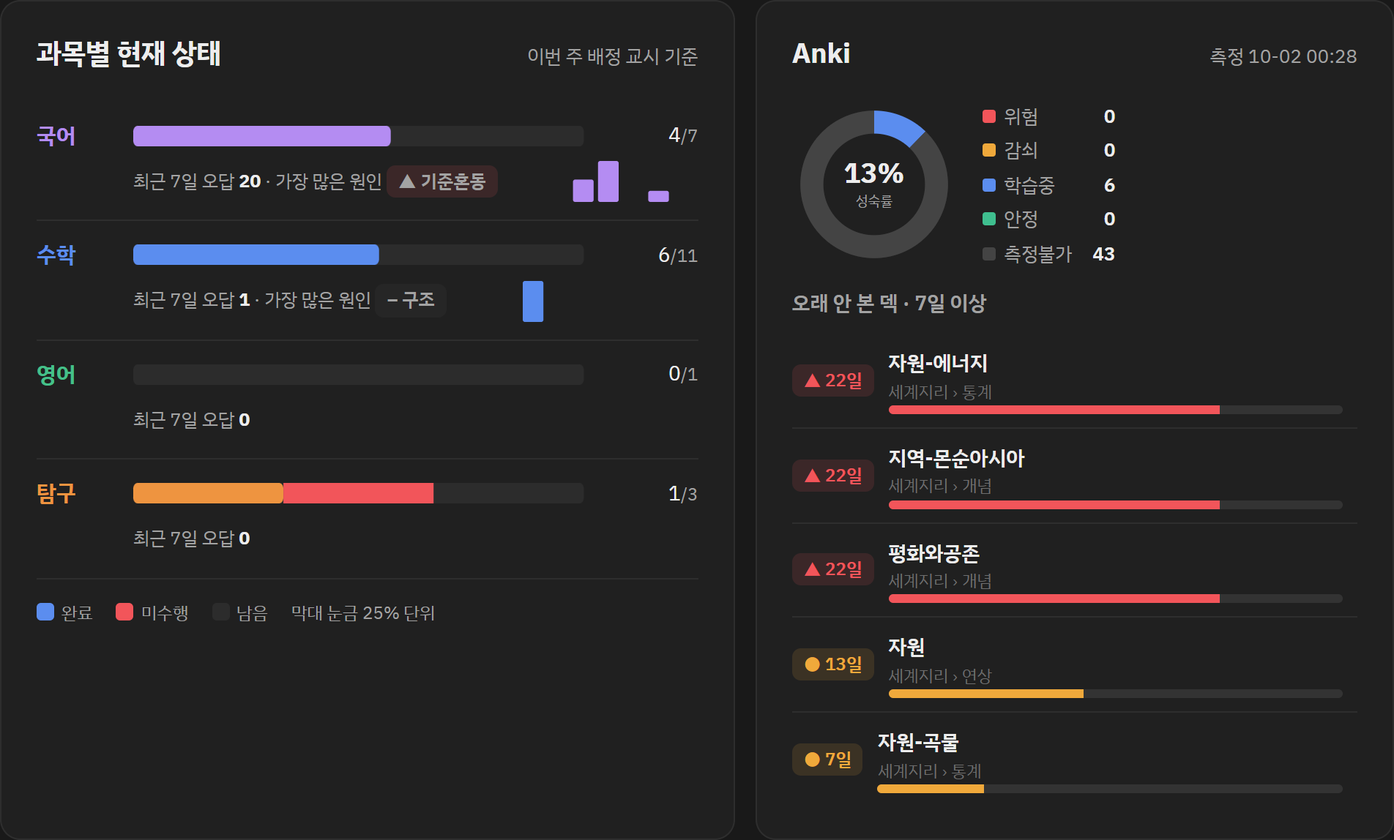
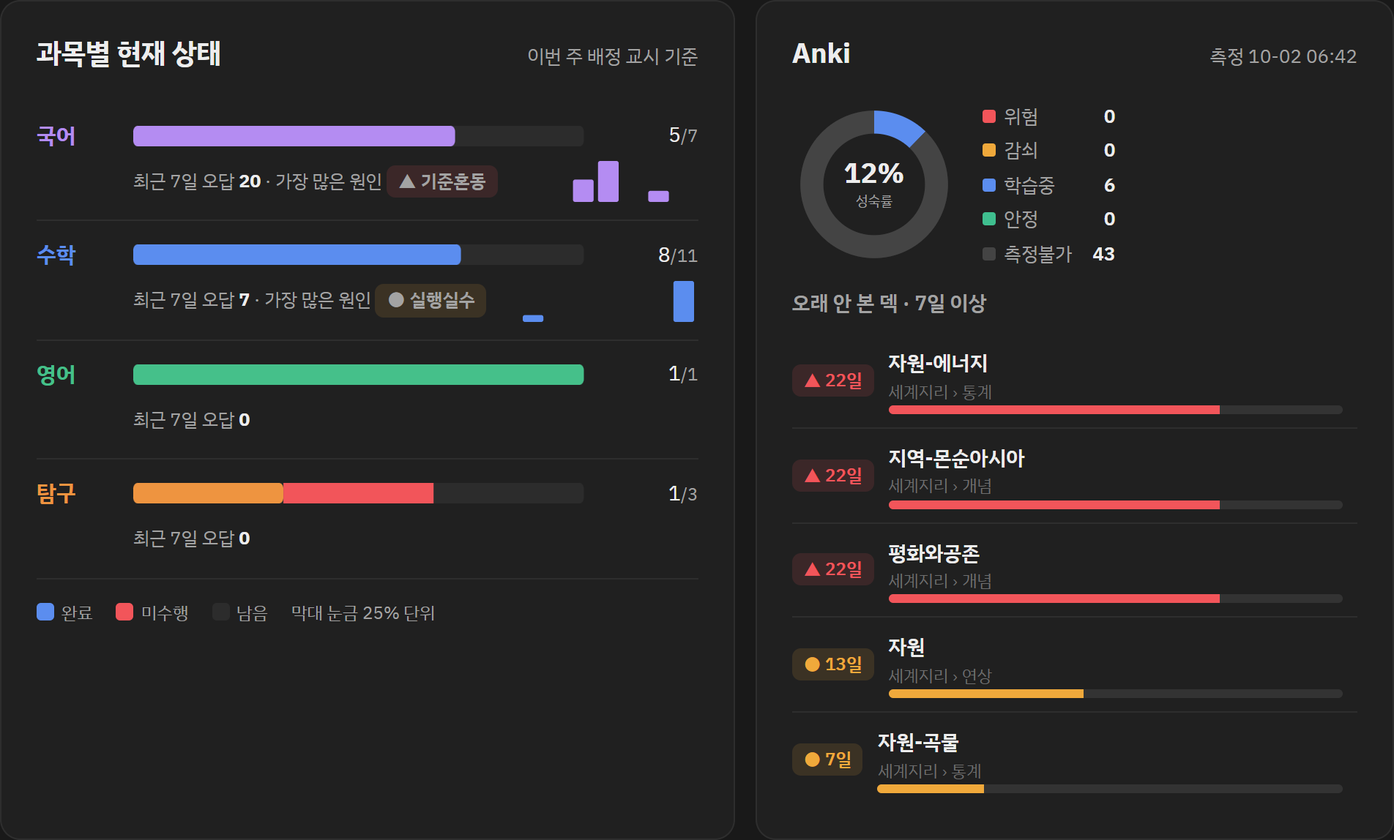
dashboard: D-48 · 완료 0 · 적체 21·저장함 196·주 0/12 · 미코딩 113
- 1차 대기 21 → 26
- 큐 밖 247 → 248

diff --git a/docs/index.html b/docs/index.html
@@ -132,7 +132,7 @@ details.mod>*:last-child{padding-bottom:14px}
   <div class="hud-top">
     <div><div class="dday">D-48</div><div class="dday-s">수능 2026-11-19</div></div>
     <div class="hud-meta">
-      <div>2026-10-02T06:40:20</div>
+      <div>2026-10-02T18:46:41</div>
       <div class="mono">규격 리뉴얼 v1 rev.n · 시간표 v1 rev.e · 2026-09-30</div>
     </div>
   </div>
@@ -334,35 +334,35 @@ details.mod>*:last-child{padding-bottom:14px}
   <span class="bar-n">0<span class="bar-n7">/0</span></span></div>
 </div><div class="card">
   <div class="sc-h"><span class="dot-s" style="background:#bb9af7"></span>
-    <span class="sc-n">수학</span><span class="chip">160행</span><span class="badge muted">미코딩 101</span></div>
+    <span class="sc-n">수학</span><span class="chip">166행</span><span class="badge muted">미코딩 101</span></div>
   <div class="bar-r"><span class="bar-l">시간</span>
   <span class="bar-t"><span class="bar-14" style="width:0.0%"></span>
   <span class="bar-7" style="width:0.0%"></span></span>
-  <span class="bar-n">0<span class="bar-n7">/0</span></span></div><div class="bar-r"><span class="bar-l">조건오독</span>
-  <span class="bar-t"><span class="bar-14" style="width:0.0%"></span>
-  <span class="bar-7" style="width:0.0%"></span></span>
-  <span class="bar-n">0<span class="bar-n7">/0</span></span></div><div class="bar-r"><span class="bar-l">발문오독</span>
+  <span class="bar-n">0<span class="bar-n7">/0</span></span></div><div class="bar-r is-top"><span class="bar-l top"><i class="rk">3</i>조건오독</span>
+  <span class="bar-t"><span class="bar-14" style="width:33.3%"></span>
+  <span class="bar-7" style="width:33.3%"></span></span>
+  <span class="bar-n">1<span class="bar-n7">/1</span></span></div><div class="bar-r"><span class="bar-l">발문오독</span>
   <span class="bar-t"><span class="bar-14" style="width:0.0%"></span>
   <span class="bar-7" style="width:0.0%"></span></span>
   <span class="bar-n">0<span class="bar-n7">/0</span></span></div><div class="bar-r"><span class="bar-l">기준혼동</span>
   <span class="bar-t"><span class="bar-14" style="width:0.0%"></span>
   <span class="bar-7" style="width:0.0%"></span></span>
-  <span class="bar-n">0<span class="bar-n7">/0</span></span></div><div class="bar-r is-top"><span class="bar-l top"><i class="rk">1</i>구조</span>
-  <span class="bar-t"><span class="bar-14" style="width:100.0%"></span>
-  <span class="bar-7" style="width:100.0%"></span></span>
-  <span class="bar-n">1<span class="bar-n7">/1</span></span></div><div class="bar-r"><span class="bar-l">개념</span>
-  <span class="bar-t"><span class="bar-14" style="width:0.0%"></span>
-  <span class="bar-7" style="width:0.0%"></span></span>
-  <span class="bar-n">0<span class="bar-n7">/0</span></span></div><div class="bar-r"><span class="bar-l">인출</span>
+  <span class="bar-n">0<span class="bar-n7">/0</span></span></div><div class="bar-r is-top"><span class="bar-l top"><i class="rk">2</i>구조</span>
+  <span class="bar-t"><span class="bar-14" style="width:66.7%"></span>
+  <span class="bar-7" style="width:66.7%"></span></span>
+  <span class="bar-n">2<span class="bar-n7">/2</span></span></div><div class="bar-r"><span class="bar-l">개념</span>
+  <span class="bar-t"><span class="bar-14" style="width:33.3%"></span>
+  <span class="bar-7" style="width:33.3%"></span></span>
+  <span class="bar-n">1<span class="bar-n7">/1</span></span></div><div class="bar-r"><span class="bar-l">인출</span>
   <span class="bar-t"><span class="bar-14" style="width:0.0%"></span>
   <span class="bar-7" style="width:0.0%"></span></span>
   <span class="bar-n">0<span class="bar-n7">/0</span></span></div><div class="bar-r"><span class="bar-l">미숙련</span>
   <span class="bar-t"><span class="bar-14" style="width:0.0%"></span>
   <span class="bar-7" style="width:0.0%"></span></span>
-  <span class="bar-n">0<span class="bar-n7">/0</span></span></div><div class="bar-r"><span class="bar-l">실행실수</span>
-  <span class="bar-t"><span class="bar-14" style="width:0.0%"></span>
-  <span class="bar-7" style="width:0.0%"></span></span>
-  <span class="bar-n">0<span class="bar-n7">/0</span></span></div>
+  <span class="bar-n">0<span class="bar-n7">/0</span></span></div><div class="bar-r is-top"><span class="bar-l top"><i class="rk">1</i>실행실수</span>
+  <span class="bar-t"><span class="bar-14" style="width:100.0%"></span>
+  <span class="bar-7" style="width:100.0%"></span></span>
+  <span class="bar-n">3<span class="bar-n7">/3</span></span></div>
 </div><div class="card">
   <div class="sc-h"><span class="dot-s" style="background:#7dcfff"></span>
     <span class="sc-n">영어</span><span class="chip">22행</span><span class="badge muted">미코딩 8</span></div>
@@ -371,8 +371,8 @@ details.mod>*:last-child{padding-bottom:14px}
   <div class="sc-h"><span class="dot-s" style="background:#e0af68"></span>
     <span class="sc-n">탐구</span><span class="chip">64행</span><span class="badge muted">미코딩 1</span></div>
   <div class="pad"><span class="na">계산불가 · 코드 없음</span></div>
-</div></details><details class="mod"><summary><span class="no">⑤</span>예제 큐<span class="sum">적체 21 · 저장함 196 · 이번 주 12 중 0</span></summary><div class="bar-r"><span class="bar-l">1차 대기</span><span class="bar-t"><span class="bar-14" style="width:100.0%"></span></span><span class="bar-n">21</span></div><div class="bar-r"><span class="bar-l">2차</span><span class="bar-t"><span class="bar-14" style="width:0.0%"></span></span><span class="bar-n">0</span></div><div class="bar-r"><span class="bar-l">해결</span><span class="bar-t"><span class="bar-14" style="width:19.0%"></span></span><span class="bar-n">4</span></div><div class="bar-r"><span class="bar-l">종결</span><span class="bar-t"><span class="bar-14" style="width:0.0%"></span></span><span class="bar-n">0</span></div>
-<div class="kv"><span>큐 밖 (미등록·예제없음)</span><b>247</b></div>
+</div></details><details class="mod"><summary><span class="no">⑤</span>예제 큐<span class="sum">적체 21 · 저장함 196 · 이번 주 12 중 0</span></summary><div class="bar-r"><span class="bar-l">1차 대기</span><span class="bar-t"><span class="bar-14" style="width:100.0%"></span></span><span class="bar-n">26</span></div><div class="bar-r"><span class="bar-l">2차</span><span class="bar-t"><span class="bar-14" style="width:0.0%"></span></span><span class="bar-n">0</span></div><div class="bar-r"><span class="bar-l">해결</span><span class="bar-t"><span class="bar-14" style="width:15.4%"></span></span><span class="bar-n">4</span></div><div class="bar-r"><span class="bar-l">종결</span><span class="bar-t"><span class="bar-14" style="width:0.0%"></span></span><span class="bar-n">0</span></div>
+<div class="kv"><span>큐 밖 (미등록·예제없음)</span><b>248</b></div>
 <div class="kv"><span>적체 (예제 배정일 도래 · 미해결)</span><b>21</b></div>
 <div class="kv"><span>저장함 / 이번 주 (완료 0)</span>
   <b class="ok">196 / 12</b></div>
@@ -392,6 +392,6 @@ details.mod>*:last-child{padding-bottom:14px}
   <span class="sk-n"><span class="nd lv" style="opacity:0.56" title="Ⅱ 자연환경 — 기후(쾨펜) · 숙련도 1 개념만"></span><span class="nd un" title="Ⅲ 인문환경 — 문화·종교 · 숙련도 미판정"></span><span class="nd lv" style="opacity:0.56" title="Ⅰ 세계화와 지역 이해 · 숙련도 1 개념만"></span><span class="nd lv" style="opacity:0.56" title="Ⅴ 건조 아시아와 북부 아프리카 · 숙련도 1 개념만"></span><span class="nd lv" style="opacity:0.56" title="Ⅲ 인문환경 — 자원(에너지) · 숙련도 1 개념만"></span><span class="nd lv" style="opacity:0.56" title="Ⅱ 자연환경 — 지형 · 숙련도 1 개념만"></span><span class="nd un" title="Ⅲ 인문환경 — 인구 · 숙련도 미판정"></span><span class="nd lv" style="opacity:0.56" title="Ⅶ 사하라 이남 아프리카와 중·남부 아메리카 · 숙련도 1 개념만"></span><span class="nd lv" style="opacity:0.56" title="Ⅳ 몬순 아시아와 오세아니아 · 숙련도 1 개념만"></span><span class="nd lv" style="opacity:0.56" title="Ⅲ 인문환경 — 자원(가축) · 숙련도 1 개념만"></span><span class="nd lv" style="opacity:0.56" title="Ⅲ 인문환경 — 자원(곡물) · 숙련도 1 개념만"></span><span class="nd un" title="Ⅷ 공존과 평화의 세계 · 숙련도 미판정"></span><span class="nd un" title="Ⅲ 인문환경 — 도시 · 숙련도 미판정"></span><span class="nd lv" style="opacity:0.56" title="Ⅵ 유럽과 북부 아메리카 · 숙련도 1 개념만"></span><span class="nd un" title="세지 02 세계의 자연환경과 인간 생활 · 숙련도 미판정"></span><span class="nd un" title="세지 03 세계의 인문환경과 인문 경관 · 숙련도 미판정"></span><span class="nd un" title="세지 05 건조 아시아와 북부 아프리카 · 숙련도 미판정"></span><span class="nd un" title="세지 04 몬순 아시아와 오세아니아 · 숙련도 미판정"></span><span class="nd un" title="세지 06 유럽과 북부 아메리카 · 숙련도 미판정"></span><span class="nd un" title="세지 07 사하라 이남 아프리카와 중·남부 아메리카 · 숙련도 미판정"></span><span class="nd un" title="세지 08 공존과 평화의 세계 · 숙련도 미판정"></span><span class="nd un" title="세지 01 세계화와 지역 이해 · 숙련도 미판정"></span></span></div><div class="sk-r"><span class="sk-l"><span class="dot-s"
   style="background:#bb9af7"></span>수학
   <span class="chip">28</span></span>
-  <span class="sk-n"><span class="nd un" title="01 문제 해결의 절차 · 숙련도 미판정"></span><span class="nd lv0" title="24강 일반론 인식하기 【게이트】 · 숙련도 0 미접촉"></span><span class="nd lv0" title="17강 Apply — 수열의 극한·무한급수 · 숙련도 0 미접촉"></span><span class="nd un" title="02 식에 대하여 · 숙련도 미판정"></span><span class="nd lv0" title="21강 Apply — 변곡점과 이계도함수 · 숙련도 0 미접촉"></span><span class="nd lv0" title="19강 Apply — 미분법과 연결성 · 숙련도 0 미접촉"></span><span class="nd un" title="05 함수합성 · 숙련도 미판정"></span><span class="nd un" title="14 모양일치와 값만 구하기 · 숙련도 미판정"></span><span class="nd lv0" title="26강 Apply 51~62번 · 숙련도 0 미접촉"></span><span class="nd un" title="10 부등식 · 숙련도 미판정"></span><span class="nd un" title="15 식 생성과 식 정리 · 숙련도 미판정"></span><span class="nd un" title="04 그래프 기본기 · 숙련도 미판정"></span><span class="nd un" title="13 목적 — 항등식·자정 · 숙련도 미판정"></span><span class="nd lv0" title="18강 Apply — 덧셈정리·함수의 극한 · 숙련도 0 미접촉"></span><span class="nd lv0" title="20강 Apply — 극대극소 · 숙련도 0 미접촉"></span><span class="nd un" title="09 함수 · 숙련도 미판정"></span><span class="nd un" title="08 항등식 · 숙련도 미판정"></span><span class="nd un" title="12 목적 (1) · 숙련도 미판정"></span><span class="nd un" title="07 방정식 · 숙련도 미판정"></span><span class="nd lv0" title="25강 Apply 43~50번 · 숙련도 0 미접촉"></span><span class="nd un" title="06 새로운 함수 · 숙련도 미판정"></span><span class="nd un" title="03 식 생성 · 숙련도 미판정"></span><span class="nd un" title="11 수열과 자연수·정수 · 숙련도 미판정"></span><span class="nd lv0" title="22강 Apply — 적분과 거리 · 숙련도 0 미접촉"></span><span class="nd un" title="16 연속과 미분 가능 · 숙련도 미판정"></span><span class="nd lv0" title="23강 Apply — 정적분 · 숙련도 0 미접촉"></span><span class="nd lv0" title="27강 Apply 63~75번 · 숙련도 0 미접촉"></span><span class="nd lv" style="opacity:0.56" title="삼각함수 활용 (도형) · 숙련도 1 개념만"></span></span></div></details><details class="mod"><summary><span class="no">⑧</span>실모 · Anki<span class="sum">실모 0회</span></summary><div class="kv"><span>이번 주 실모</span><b>0회</b></div><div class="kv"><span>Anki due · 17.5초/장</span><b><b>155</b>장 <span class="tail">≈ 45분</span></b></div></details>
-<footer class="note"><a href="trend.html">추세 &rarr;</a> &middot; Exam OS 스테이터스 · 2026-10-02T06:40:20 생성 · 규격 리뉴얼 v1 rev.n · 시간표 v1 rev.e · 2026-09-30 · 값은 전부 Notion 실측이며 추정치는 없습니다. ④ 약점은 ERRORLOG 4종, ⑤ 예제 지표는 3종(watch·accounting과 동일 분모) 기준입니다. ⑨는 설계 §2 표 이후 추가된 모듈이라 번호는 뒤지만 자리는 폴드 위입니다(09-06).</footer>
+  <span class="sk-n"><span class="nd un" title="01 문제 해결의 절차 · 숙련도 미판정"></span><span class="nd lv0" title="24강 일반론 인식하기 【게이트】 · 숙련도 0 미접촉"></span><span class="nd lv0" title="17강 Apply — 수열의 극한·무한급수 · 숙련도 0 미접촉"></span><span class="nd un" title="02 식에 대하여 · 숙련도 미판정"></span><span class="nd lv0" title="21강 Apply — 변곡점과 이계도함수 · 숙련도 0 미접촉"></span><span class="nd lv0" title="19강 Apply — 미분법과 연결성 · 숙련도 0 미접촉"></span><span class="nd un" title="05 함수합성 · 숙련도 미판정"></span><span class="nd un" title="14 모양일치와 값만 구하기 · 숙련도 미판정"></span><span class="nd lv0" title="26강 Apply 51~62번 · 숙련도 0 미접촉"></span><span class="nd un" title="10 부등식 · 숙련도 미판정"></span><span class="nd un" title="15 식 생성과 식 정리 · 숙련도 미판정"></span><span class="nd un" title="04 그래프 기본기 · 숙련도 미판정"></span><span class="nd un" title="13 목적 — 항등식·자정 · 숙련도 미판정"></span><span class="nd lv0" title="18강 Apply — 덧셈정리·함수의 극한 · 숙련도 0 미접촉"></span><span class="nd lv0" title="20강 Apply — 극대극소 · 숙련도 0 미접촉"></span><span class="nd un" title="09 함수 · 숙련도 미판정"></span><span class="nd un" title="08 항등식 · 숙련도 미판정"></span><span class="nd un" title="12 목적 (1) · 숙련도 미판정"></span><span class="nd un" title="07 방정식 · 숙련도 미판정"></span><span class="nd lv0" title="25강 Apply 43~50번 · 숙련도 0 미접촉"></span><span class="nd un" title="06 새로운 함수 · 숙련도 미판정"></span><span class="nd un" title="03 식 생성 · 숙련도 미판정"></span><span class="nd un" title="11 수열과 자연수·정수 · 숙련도 미판정"></span><span class="nd lv0" title="22강 Apply — 적분과 거리 · 숙련도 0 미접촉"></span><span class="nd un" title="16 연속과 미분 가능 · 숙련도 미판정"></span><span class="nd lv0" title="23강 Apply — 정적분 · 숙련도 0 미접촉"></span><span class="nd lv0" title="27강 Apply 63~75번 · 숙련도 0 미접촉"></span><span class="nd lv" style="opacity:0.56" title="삼각함수 활용 (도형) · 숙련도 1 개념만"></span></span></div></details><details class="mod"><summary><span class="no">⑧</span>실모 · Anki<span class="sum">실모 0회</span></summary><div class="kv"><span>이번 주 실모</span><b>0회</b></div><div class="kv"><span>Anki due · 17.5초/장</span><b><b>179</b>장 <span class="tail">≈ 52분</span></b></div></details>
+<footer class="note"><a href="trend.html">추세 &rarr;</a> &middot; Exam OS 스테이터스 · 2026-10-02T18:46:42 생성 · 규격 리뉴얼 v1 rev.n · 시간표 v1 rev.e · 2026-09-30 · 값은 전부 Notion 실측이며 추정치는 없습니다. ④ 약점은 ERRORLOG 4종, ⑤ 예제 지표는 3종(watch·accounting과 동일 분모) 기준입니다. ⑨는 설계 §2 표 이후 추가된 모듈이라 번호는 뒤지만 자리는 폴드 위입니다(09-06).</footer>
 </div></body></html>

diff --git a/docs/home.html b/docs/home.html
@@ -94,11 +94,11 @@ white-space:nowrap;overflow:hidden;text-overflow:ellipsis}
 .none{flex:1;padding:6px 0}}
 </style></head><body><div class="wrap">
 <p class="foot"><a href="index.html" target="_blank" rel="noopener" style="color:inherit">⑨ 방법론 학습 상태 &rarr;</a></p>
-<section class="card"><div class="ch"><h2>주간 목표 · 9/28 – 10/3</h2><span class="num">완료 2/11</span></div><div class="goals"><div class="gr gh"><span></span><span>월</span><span>화</span><span>수</span><span>목</span><span>금</span><span>토</span><span></span></div><div class="gr" style="--c:#0a84ff"><p><b>4공법 Anki 25 + 백지 인출 25 + …</b><small>수학</small></p><i class="d done"></i><i class="d done"></i><i class="d done"></i><i class="d unk"></i><i class="d plan"></i><i class="d "></i><span class="num">3/5</span></div><div class="gr" style="--c:#0a84ff"><p><b>코어테마 미적분</b><small>수학</small></p><i class="d done"></i><i class="d done"></i><i class="d done"></i><i class="d unk"></i><i class="d plan"></i><i class="d "></i><span class="num">3/5</span></div><div class="gr" style="--c:#af52de"><p><b>국어 몰아하기 — 문학 도약 잔여 11강(수필…</b><small>국어</small></p><i class="d done"></i><i class="d done"></i><i class="d "></i><i class="d unk"></i><i class="d plan"></i><i class="d "></i><span class="num">2/4</span></div><div class="gr" style="--c:#af52de"><p><b>국어 몰아하기 — 이어서</b><small>국어</small></p><i class="d done"></i><i class="d "></i><i class="d "></i><i class="d unk"></i><i class="d "></i><i class="d "></i><span class="num">1/2</span></div><div class="gr" style="--c:#8e8e93"><p><b>예제</b><small>공통</small></p><i class="d done"></i><i class="d done"></i><i class="d "></i><i class="d unk"></i><i class="d "></i><i class="d "></i><span class="num">2/3</span></div><div class="gr" style="--c:#ff9500"><p><b>사회문화 루틴 — 나르샤 테마 + 방법론</b><small>사문</small></p><i class="d "></i><i class="d "></i><i class="d miss"></i><i class="d "></i><i class="d "></i><i class="d "></i><span class="num">0/1</span></div><div class="gr" style="--c:#30b158"><p><b>영어 루틴 — 김동하 강의</b><small>영어</small></p><i class="d "></i><i class="d "></i><i class="d "></i><i class="d "></i><i class="d plan"></i><i class="d "></i><span class="num">0/1</span></div><div class="gr" style="--c:#0a84ff"><p><b>약점 보완 ① 정재일 실모 채점·오답 분석</b><small>수학</small></p><i class="d "></i><i class="d "></i><i class="d "></i><i class="d "></i><i class="d "></i><i class="d plan"></i><span class="num">0/1</span></div><div class="gr" style="--c:#ff9500"><p><b>약점 보완 ② 사회문화 방법론</b><small>사문</small></p><i class="d "></i><i class="d "></i><i class="d "></i><i class="d "></i><i class="d "></i><i class="d plan"></i><span class="num">0/1</span></div><div class="gr fin" style="--c:#af52de"><p><b>✓ 판단 훈련 — 시험 전 한 장 시트 읽고 고전…</b><small>국어</small></p><i class="d "></i><i class="d done"></i><i class="d "></i><i class="d "></i><i class="d "></i><i class="d "></i><span class="num">1/1</span></div><div class="gr fin" style="--c:#ff9500"><p><b>✓ 세계지리 — 전수검사 105장 → 기출분석 강…</b><small>탐구</small></p><i class="d "></i><i class="d "></i><i class="d done"></i><i class="d "></i><i class="d "></i><i class="d "></i><span class="num">1/1</span></div></div></section>
-<section class="card"><h2>과목별 현재 상태</h2><div class="subj"><div class="sj" style="--c:#af52de"><b>국어</b><div class="sb"><i class="ok" style="width:57%"></i><i class="ms" style="width:0%"></i></div><span class="num">4/7</span><small>오답 7일 20 · 최다 「기준혼동」</small></div><div class="sj" style="--c:#0a84ff"><b>수학</b><div class="sb"><i class="ok" style="width:55%"></i><i class="ms" style="width:0%"></i></div><span class="num">6/11</span><small>오답 7일 1 · 최다 「구조」</small></div><div class="sj" style="--c:#30b158"><b>영어</b><div class="sb"><i class="ok" style="width:0%"></i><i class="ms" style="width:0%"></i></div><span class="num">0/1</span><small>오답 7일 0</small></div><div class="sj" style="--c:#ff9500"><b>탐구</b><div class="sb"><i class="ok" style="width:33%"></i><i class="ms" style="width:33%"></i></div><span class="num">1/3</span><small>오답 7일 0</small></div></div><p class="key"><i class="k ok"></i>완료 <i class="k ms"></i>미수행 <i class="k"></i>남음 · 이번 주 배정 교시 기준</p></section>
-<section class="card"><h2>Anki</h2><div class="pace"><div class="tile"><b class="num">155</b><span>오늘 복습 · ≈45분</span></div><div class="tile"><b class="num">13%</b><span>성숙률 (21일+)</span></div><div class="tile"><b class="num">49</b><span>덱</span></div></div><p class="key">학습중 6 · 측정불가 43</p><div class="stale"><strong>⚠ 7일 넘게 안 본 덱 5개</strong><ul><li><b>자원-에너지</b><small>세계지리::통계</small><span class="num">22일</span></li><li><b>지역-몬순아시아</b><small>세계지리::개념</small><span class="num">22일</span></li><li><b>평화와공존</b><small>세계지리::개념</small><span class="num">22일</span></li><li><b>자원</b><small>세계지리::연상</small><span class="num">13일</span></li><li><b>자원-곡물</b><small>세계지리::통계</small><span class="num">7일</span></li></ul></div><p class="key">측정 10-02 00:28</p></section>
+<section class="card"><div class="ch"><h2>주간 목표 · 9/28 – 10/3</h2><span class="num">완료 4/12</span></div><div class="goals"><div class="gr gh"><span></span><span>월</span><span>화</span><span>수</span><span>목</span><span>금</span><span>토</span><span></span></div><div class="gr" style="--c:#0a84ff"><p><b>4공법 Anki 25 + 백지 인출 25 + …</b><small>수학</small></p><i class="d done"></i><i class="d done"></i><i class="d done"></i><i class="d unk"></i><i class="d done"></i><i class="d "></i><span class="num">4/5</span></div><div class="gr" style="--c:#0a84ff"><p><b>코어테마 미적분</b><small>수학</small></p><i class="d done"></i><i class="d done"></i><i class="d done"></i><i class="d unk"></i><i class="d done"></i><i class="d "></i><span class="num">4/5</span></div><div class="gr" style="--c:#af52de"><p><b>국어 몰아하기 — 문학 도약 잔여 11강(수필…</b><small>국어</small></p><i class="d done"></i><i class="d done"></i><i class="d "></i><i class="d unk"></i><i class="d done"></i><i class="d "></i><span class="num">3/4</span></div><div class="gr" style="--c:#af52de"><p><b>국어 몰아하기 — 이어서</b><small>국어</small></p><i class="d done"></i><i class="d "></i><i class="d "></i><i class="d unk"></i><i class="d "></i><i class="d "></i><span class="num">1/2</span></div><div class="gr" style="--c:#8e8e93"><p><b>예제</b><small>공통</small></p><i class="d done"></i><i class="d done"></i><i class="d "></i><i class="d unk"></i><i class="d "></i><i class="d "></i><span class="num">2/3</span></div><div class="gr" style="--c:#ff9500"><p><b>사회문화 루틴 — 나르샤 테마 + 방법론</b><small>사문</small></p><i class="d "></i><i class="d "></i><i class="d miss"></i><i class="d "></i><i class="d "></i><i class="d "></i><span class="num">0/1</span></div><div class="gr" style="--c:#0a84ff"><p><b>약점 보완 ① 정재일 실모 채점·오답 분석</b><small>수학</small></p><i class="d "></i><i class="d "></i><i class="d "></i><i class="d "></i><i class="d "></i><i class="d plan"></i><span class="num">0/1</span></div><div class="gr" style="--c:#ff9500"><p><b>약점 보완 ② 사회문화 방법론</b><small>사문</small></p><i class="d "></i><i class="d "></i><i class="d "></i><i class="d "></i><i class="d "></i><i class="d plan"></i><span class="num">0/1</span></div><div class="gr fin" style="--c:#af52de"><p><b>✓ 판단 훈련 — 시험 전 한 장 시트 읽고 고전…</b><small>국어</small></p><i class="d "></i><i class="d done"></i><i class="d "></i><i class="d "></i><i class="d "></i><i class="d "></i><span class="num">1/1</span></div><div class="gr fin" style="--c:#ff9500"><p><b>✓ 세계지리 — 전수검사 105장 → 기출분석 강…</b><small>탐구</small></p><i class="d "></i><i class="d "></i><i class="d done"></i><i class="d "></i><i class="d "></i><i class="d "></i><span class="num">1/1</span></div><div class="gr fin" style="--c:#30b158"><p><b>✓ 영어 루틴 — 김동하 강의</b><small>영어</small></p><i class="d "></i><i class="d "></i><i class="d "></i><i class="d "></i><i class="d done"></i><i class="d "></i><span class="num">1/1</span></div><div class="gr fin" style="--c:#8e8e93"><p><b>✓ 실모 None점</b><small>공통</small></p><i class="d "></i><i class="d "></i><i class="d "></i><i class="d "></i><i class="d done"></i><i class="d "></i><span class="num">1/1</span></div></div></section>
+<section class="card"><h2>과목별 현재 상태</h2><div class="subj"><div class="sj" style="--c:#af52de"><b>국어</b><div class="sb"><i class="ok" style="width:71%"></i><i class="ms" style="width:0%"></i></div><span class="num">5/7</span><small>오답 7일 20 · 최다 「기준혼동」</small></div><div class="sj" style="--c:#0a84ff"><b>수학</b><div class="sb"><i class="ok" style="width:73%"></i><i class="ms" style="width:0%"></i></div><span class="num">8/11</span><small>오답 7일 7 · 최다 「실행실수」</small></div><div class="sj" style="--c:#30b158"><b>영어</b><div class="sb"><i class="ok" style="width:100%"></i><i class="ms" style="width:0%"></i></div><span class="num">1/1</span><small>오답 7일 0</small></div><div class="sj" style="--c:#ff9500"><b>탐구</b><div class="sb"><i class="ok" style="width:33%"></i><i class="ms" style="width:33%"></i></div><span class="num">1/3</span><small>오답 7일 0</small></div></div><p class="key"><i class="k ok"></i>완료 <i class="k ms"></i>미수행 <i class="k"></i>남음 · 이번 주 배정 교시 기준</p></section>
+<section class="card"><h2>Anki</h2><div class="pace"><div class="tile"><b class="num">155</b><span>오늘 복습 · ≈45분</span></div><div class="tile"><b class="num">12%</b><span>성숙률 (21일+)</span></div><div class="tile"><b class="num">49</b><span>덱</span></div></div><p class="key">학습중 6 · 측정불가 43</p><div class="stale"><strong>⚠ 7일 넘게 안 본 덱 5개</strong><ul><li><b>자원-에너지</b><small>세계지리::통계</small><span class="num">22일</span></li><li><b>지역-몬순아시아</b><small>세계지리::개념</small><span class="num">22일</span></li><li><b>평화와공존</b><small>세계지리::개념</small><span class="num">22일</span></li><li><b>자원</b><small>세계지리::연상</small><span class="num">13일</span></li><li><b>자원-곡물</b><small>세계지리::통계</small><span class="num">7일</span></li></ul></div><p class="key">측정 10-02 06:42</p></section>
 <section class="card"><div class="hero"><b class="num">D-48</b>
 <div class="sub"><strong>목표 레이스</strong>9/5 출발 · 75일 중 27일째</div></div>
 <svg viewBox="0 0 600 96" role="img" aria-label="수능까지 구간 레이스 — 오늘 위치"><rect x="14" y="50" width="558" height="10" rx="5" fill="var(--track)"/><rect x="14.0" y="50" width="117.0" height="10" rx="5" fill="var(--done)"/><circle cx="73.5" cy="80" r="9" fill="var(--tile)"/><text x="73.5" y="84" font-size="11" font-weight="700" text-anchor="middle" fill="var(--ink2)">1</text><rect x="133.0" y="50" width="102.2" height="10" rx="5" fill="var(--acc2)"/><rect x="133.0" y="50" width="81.8" height="10" rx="5" fill="var(--acc)"/><circle cx="185.1" cy="80" r="9" fill="var(--acc)"/><text x="185.1" y="84" font-size="11" font-weight="700" text-anchor="middle" fill="#fff">2</text><circle cx="293.0" cy="80" r="9" fill="var(--tile)"/><text x="293.0" y="84" font-size="11" font-weight="700" text-anchor="middle" fill="var(--ink2)">3</text><circle cx="374.8" cy="80" r="9" fill="var(--tile)"/><text x="374.8" y="84" font-size="11" font-weight="700" text-anchor="middle" fill="var(--ink2)">4</text><circle cx="415.8" cy="80" r="9" fill="var(--tile)"/><text x="415.8" y="84" font-size="11" font-weight="700" text-anchor="middle" fill="var(--ink2)">5</text><circle cx="501.3" cy="80" r="9" fill="var(--tile)"/><text x="501.3" y="84" font-size="11" font-weight="700" text-anchor="middle" fill="var(--ink2)">6</text><rect x="574" y="32" width="4" height="4" fill="var(--ink)"/><rect x="582" y="32" width="4" height="4" fill="var(--ink)"/><rect x="578" y="36" width="4" height="4" fill="var(--ink)"/><line x1="574" y1="32" x2="574" y2="60" stroke="var(--ink)" stroke-width="1.5"/><text x="586" y="26" font-size="12" font-weight="700" text-anchor="end" fill="var(--ink)">수능 11/19</text><rect x="192.9" y="6" width="44" height="22" rx="11" fill="var(--acc)"/><text x="214.9" y="21" font-size="12" font-weight="700" text-anchor="middle" fill="#fff">오늘</text><line x1="214.9" y1="28" x2="214.9" y2="50" stroke="var(--acc)" stroke-width="2"/><circle cx="214.9" cy="55" r="8" fill="var(--acc)" stroke="var(--card)" stroke-width="3"/></svg><ol class="legend"><li><i>1</i>기본기 마무리<small class="num">9/5</small></li><li class=on><i>2</i>공략법 착수<small class="num">9/21</small></li><li><i>3</i>연습<small class="num">10/5</small></li><li><i>4</i>국어 3축 완료<small class="num">10/20</small></li><li><i>5</i>0교시 개시<small class="num">10/27</small></li><li><i>6</i>실전만<small class="num">10/31</small></li></ol><div class="lap"><strong>2구간 · 공략법 착수</strong><span class="num">9/21 – 10/4 · 12/14일 · 2일 남음</span></div><div class="bar"><i style="width:86%"></i></div><div class="crit"><div class="row"><p>외운 방법론을 실제 문항에 적용하는 훈련</p><div class="tag">기록으로 재지 않는 목표</div></div><div class="row"><p>수학 &#x27;시간&#x27; 코드 주 3건 이하</p><div class="meter"><span class="v" style="color:var(--good)">이번 주 0건 / 한도 3</span><div class="t"></div><div class="lim" style="left:50.0%"></div><div class="dot" style="left:0.0%;background:var(--good)"></div></div></div></div></section>
-<p class="foot num">자동 갱신 10-02 06:41</p>
+<p class="foot num">자동 갱신 10-02 18:47</p>
 </div></body></html>
